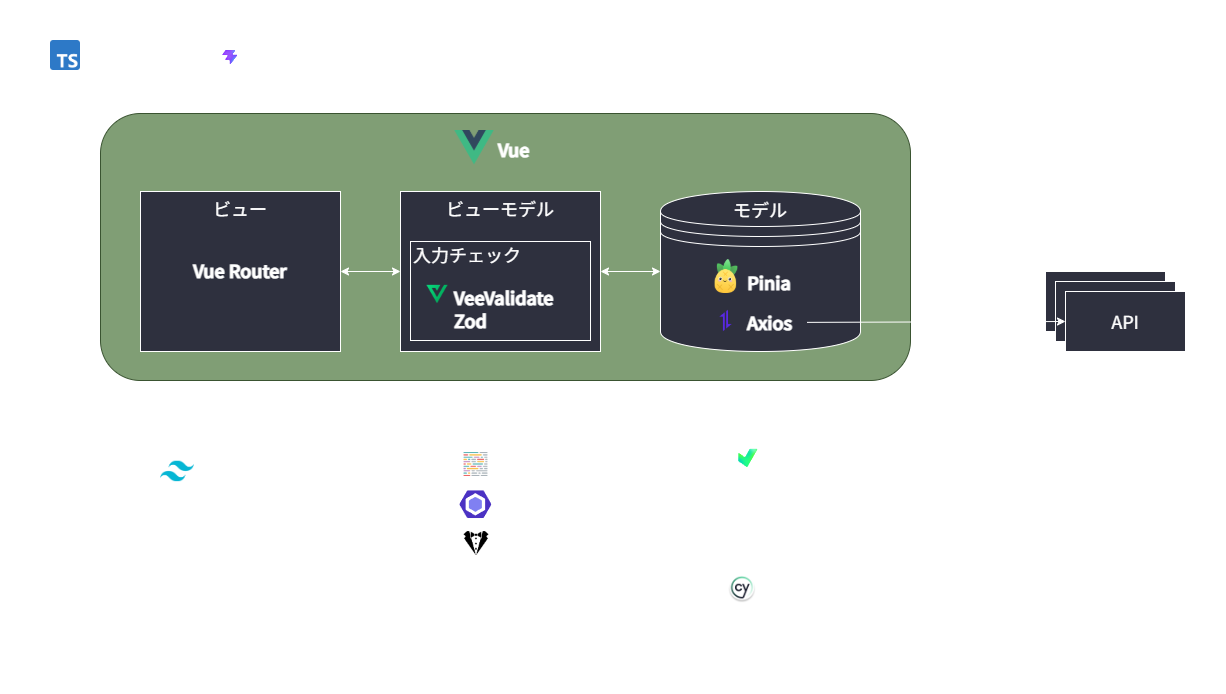
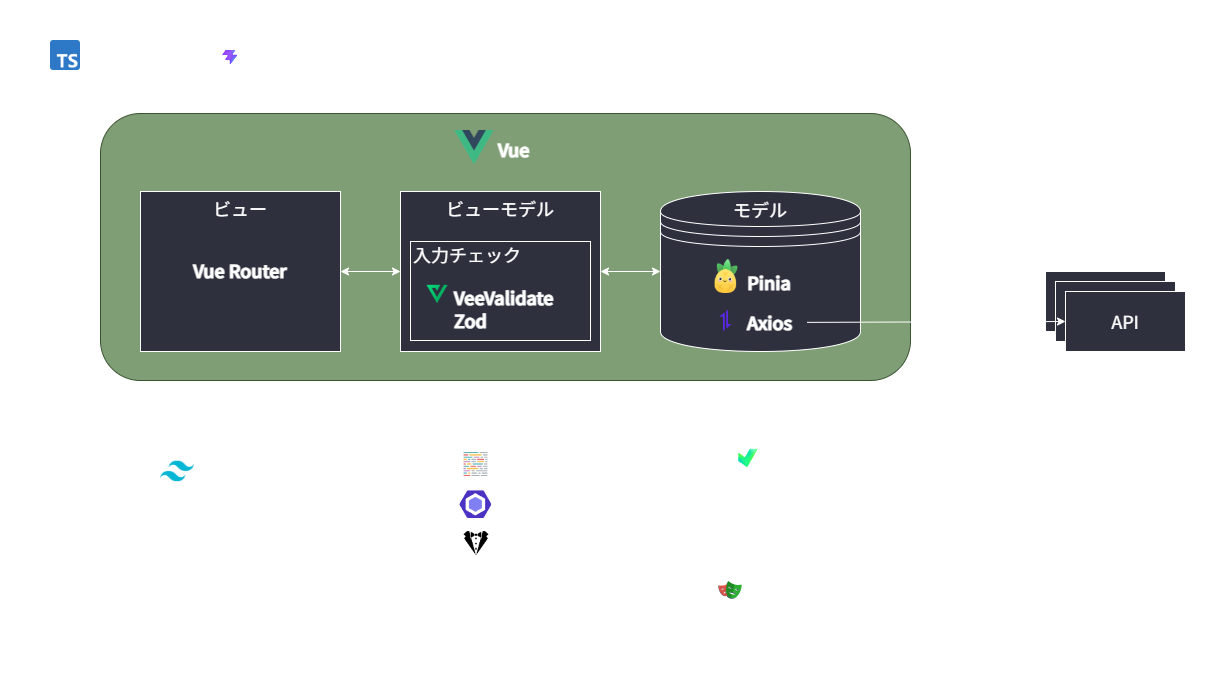
Cypressに関する記載をPlaywrightベースへ修正

diff --git a/documents/contents/guidebooks/how-to-develop/csr/vue-js/static-verification-and-format.md b/documents/contents/guidebooks/how-to-develop/csr/vue-js/static-verification-and-format.md
@@ -131,7 +131,7 @@ npm run lint
 [コーディング規約](../../../conventions/coding-conventions.md) に沿うように設定を追加・変更します。
 初期設定からの変更点をハイライトで示します。
 
-```typescript title="サンプルアプリケーションの eslint.config.ts" hl_lines="7-9 11-14 22-23 28 32 35-42 45-48 52-68 74-75 82 86-89"
+```typescript title="サンプルアプリケーションの eslint.config.ts" hl_lines="7-9 11-14 22-24 29 33 36-43 46-49 53-69 73-74 80 84-87"
 https://github.com/AlesInfiny/maris/blob/main/samples/Dressca/dressca-frontend/eslint.config.ts
 ```
 
@@ -173,13 +173,10 @@ configureVueProject({
 
 src フォルダーが eslint.config.ts の直下ではなくなるので、ワークスペース配下を検索するようにパスを修正します。
 
-```typescript hl_lines="4-5 11"
+```typescript hl_lines="3 8"
 {
-  ...pluginCypress.configs.recommended,
-  files: [
-    '**/cypress/e2e/**/*.{cy,spec}.{js,ts,jsx,tsx}',
-    '**/cypress/support/**/*.{js,ts,jsx,tsx}',
-  ],
+    ...pluginPlaywright.configs['flat/recommended'],
+    files: ['**/e2e/**/*.{spec,test}.{js,ts,jsx,tsx}'],
 },
 
 {

diff --git a/documents/contents/about-maris/trademarks.md b/documents/contents/about-maris/trademarks.md
@@ -41,7 +41,7 @@ BIPROGY 株式会社からの許可がない場合、以下のように使用し
   AlesInfiny Maris OSS Edition は、独立したドキュメントであり、 Apple Inc.が認定、後援、その他承認したものではありません。
 - The Tailwind name and logos are trademarks of Tailwind Labs Inc.
 - 「ESLint」およびそのロゴは OpenJS Foundation の商標または登録商標です。
-- 「Cypress」およびそのロゴは Cypress.io, Inc. の商標または登録商標です。
+- 「Playwright」およびそのロゴは Microsoft の商標または登録商標です。
 - その他記載されている会社名・商品名などは、各社の商標および登録商標です。
 - 本サイトに記載の商品名、製品名、社名などには、必ずしも商標表示 ( (R) 、 TM ) を付記していません。
 

diff --git a/documents/contents/app-architecture/client-side-rendering/csr-architecture-overview.md b/documents/contents/app-architecture/client-side-rendering/csr-architecture-overview.md
@@ -70,7 +70,7 @@ AlesInfiny Maris OSS Edition （以降、 AlesInfiny Maris ） の CSR アプリ
 
           Vite 環境で動作する高速なテスティングフレームワークです。
 
-    - [Cypress :material-open-in-new:](https://www.cypress.io/){ target=_blank }
+    - [Playwright :material-open-in-new:](https://playwright.dev/){ target=_blank }
 
           E2E テストツールです。
 
